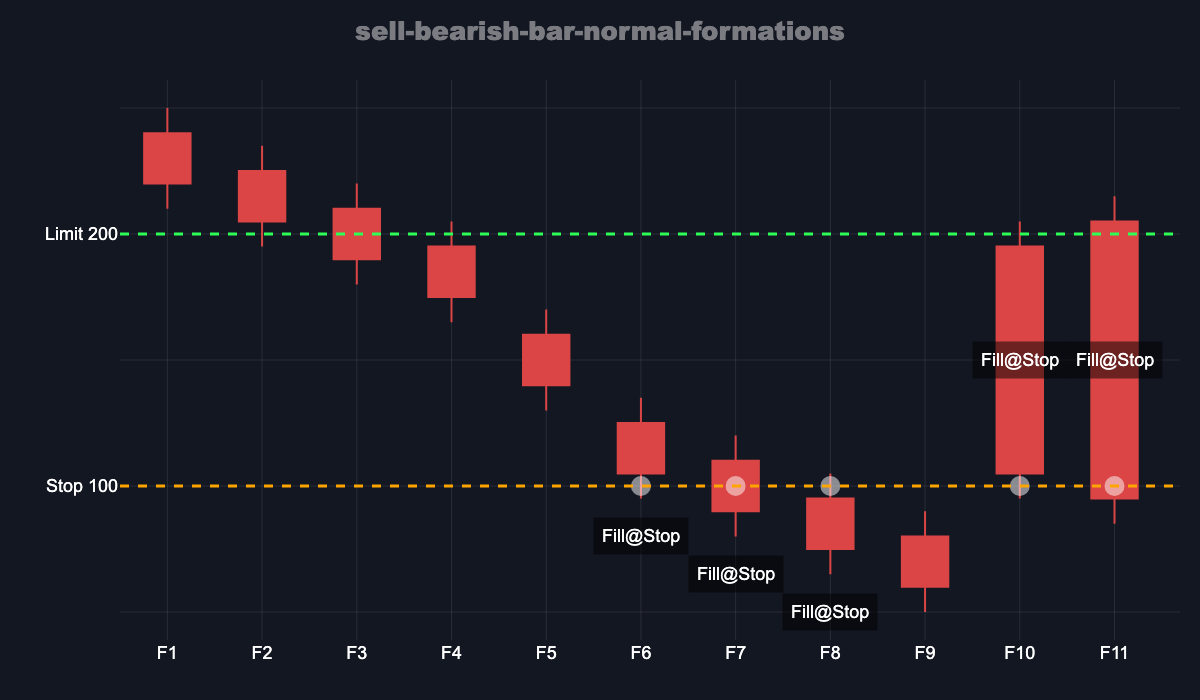
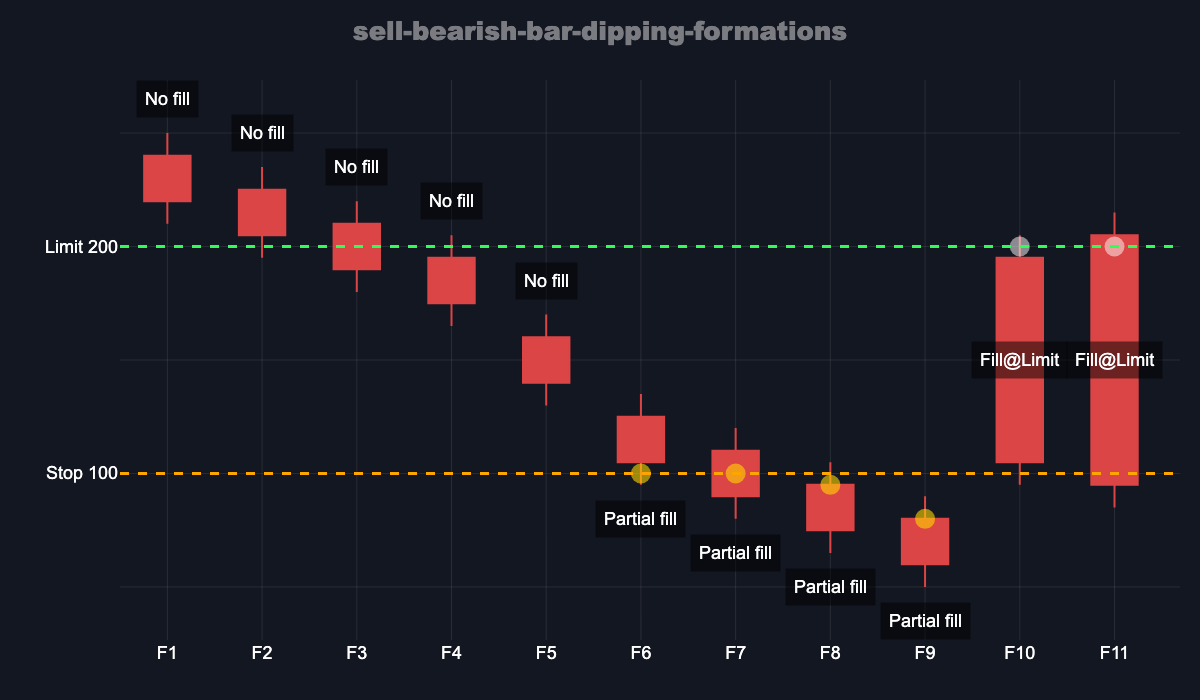
Reallization that the dipping formations' outcome was wrong, fixing them in the docs. (no fixes yet in the algoritm/tests)

diff --git a/docs/stop-limit order/stop-limit-chart-generator.py b/docs/stop-limit order/stop-limit-chart-generator.py
@@ -33,10 +33,11 @@ bar_type = "bullish" if "bullish" in csv_file.lower() else "bearish"
 
 # Parse fill information to extract fill price
 def parse_fill(fill_str):
-    """Extract fill price from fill string like 'Stop (100)' or 'No fill'"""
+    """Extract fill price from fill string like 'Stop (100)', 'Open (205)', or 'No fill'"""
     if "No fill" in fill_str:
         return 0
-    match = re.search(r'\((\d+)\)', fill_str)
+    # Match either "(digits)" or "(word digits)"
+    match = re.search(r'\((?:\w+\s+)?(\d+)\)', fill_str)
     return int(match.group(1)) if match else 0
 
 df['fill_price'] = df['Fill'].apply(parse_fill)
@@ -69,15 +70,23 @@ fig.add_hline(y=stop_price, line_dash="dash", line_color="orange", line_width=3)
 # Add Limit line (brighter green dashed)
 fig.add_hline(y=limit_price, line_dash="dash", line_color="#2EFF57", line_width=3)
 
-# Add markers at exact fill prices (single half-transparent white marker per formation, only where fill_price > 0)
+# Add markers at exact fill prices (single half-transparent marker per formation, only where fill_price > 0)
 markers_x = []
 markers_y = []
+partial_markers_x = []
+partial_markers_y = []
 
 for idx, row in df.iterrows():
     if row["fill_price"] > 0:
-        markers_x.append(row["x"])
-        markers_y.append(row["fill_price"])
+        # Check if this is a partial fill
+        if "Partial fill" in row["Fill"]:
+            partial_markers_x.append(row["x"])
+            partial_markers_y.append(row["fill_price"])
+        else:
+            markers_x.append(row["x"])
+            markers_y.append(row["fill_price"])
 
+# Add white markers for complete fills
 fig.add_trace(
     go.Scatter(
         x=markers_x,
@@ -89,31 +98,56 @@ fig.add_trace(
     )
 )
 
+# Add yellowish markers for partial fills
+fig.add_trace(
+    go.Scatter(
+        x=partial_markers_x,
+        y=partial_markers_y,
+        mode="markers",
+        marker=dict(size=20, color="rgba(255, 215, 0, 0.6)", line=dict(width=0)),  # Yellowish/gold color
+        showlegend=False,
+        hoverinfo="skip",
+    )
+)
+
 # Add fill labels dynamically based on fill information
 for idx, row in df.iterrows():
-    if row['fill_price'] > 0:
+    formation = row['Formation']
+    fill_str = row['Fill']
+    
+    # Handle different fill types
+    if "No fill" in fill_str:
+        fill_text = "No fill"
+        # Position above the bar for no-fill cases
+        y_pos = row['High'] + 15
+    elif "Partial fill" in fill_str:
+        # Extract price from partial fill like "Partial fill (Stop 200)"
+        fill_text = "Partial fill"
+        y_pos = row['Low'] - 15
+    elif row['fill_price'] > 0:
         # Extract fill type from Fill column
         fill_type = row['Fill'].split('(')[0].strip()
         fill_text = f"Fill@{fill_type}"
         
         # Position labels based on formation
-        formation = row['Formation']
         if formation in ['F2', 'F3', 'F4', 'F5']:
             y_pos = row['High'] + 15
         elif formation in ['F6', 'F7', 'F8']:
             y_pos = row['Low'] - 15
         else:  # F10, F11
             y_pos = (row['High'] + row['Low']) / 2
-        
-        fig.add_annotation(
-            x=formation,
-            y=y_pos,
-            text=fill_text,
-            showarrow=False,
-            font=dict(size=18, color="white", family="Arial"),
-            bgcolor="rgba(0,0,0,0.5)",
-            borderpad=8,
-        )
+    else:
+        continue  # Skip if no valid fill information
+    
+    fig.add_annotation(
+        x=formation,
+        y=y_pos,
+        text=fill_text,
+        showarrow=False,
+        font=dict(size=18, color="white", family="Arial"),
+        bgcolor="rgba(0,0,0,0.5)",
+        borderpad=8,
+    )
 
 # Add Stop label on Y-axis
 fig.add_annotation(

diff --git a/docs/stop-limit order/formations.md b/docs/stop-limit order/formations.md
@@ -41,7 +41,7 @@ Each section covers a specific scenario (action type × bar direction × order c
 | F6        | High (@205)   | Limit (@200) | Close (@195) | Open (@175)   | Low (@165)   | Stop (@100)| Open (175)   |
 | F7        | High (@220)   | Close (@210) | Limit (@200) | Open (@190)   | Low (@180)   | Stop (@100)| Open (190)   |
 | F8        | High (@235)   | Close (@225) | Open (@205)  | Limit (@200)  | Low (@195)   | Stop (@100)| Limit (200)  |
-| F9        | High (@250)   | Close (@240) | Open (@220)  | Low (@210)    | Limit (@200) | Stop (@100)| No fill      |
+| F9        | High (@250)   | Close (@240) | Open (@220)  | Low (@210)    | Limit (@200) | Stop (@100)| Partial fill      |
 | F10       | High (@205)   | Limit (@200) | Close (@195) | Open (@105)   | Stop (@100)  | Low (@95)  | Open (105)   |
 | F11       | High (@215)   | Close (@205) | Limit (@200) | Stop (@100)   | Open (@95)   | Low (@85)  | Stop (100)   |
 
@@ -63,7 +63,7 @@ Each section covers a specific scenario (action type × bar direction × order c
 | F6        | High (@205)   | Limit (@200) | Open (@195)  | Close (@175)  | Low (@165)   | Stop (@100)| Open (195)   |
 | F7        | High (@220)   | Open (@210)  | Limit (@200) | Close (@190)  | Low (@180)   | Stop (@100)| Limit (200)  |
 | F8        | High (@235)   | Open (@225)  | Close (@205) | Limit (@200)  | Low (@195)   | Stop (@100)| Limit (200)  |
-| F9        | High (@250)   | Open (@240)  | Close (@220) | Low (@210)    | Limit (@200) | Stop (@100)| No fill      |
+| F9        | High (@250)   | Open (@240)  | Close (@220) | Low (@210)    | Limit (@200) | Stop (@100)| Partial fill      |
 | F10       | High (@205)   | Limit (@200) | Open (@195)  | Close (@105)  | Stop (@100)  | Low (@95)  | Open (195)   |
 | F11       | High (@215)   | Open (@205)  | Limit (@200) | Stop (@100)   | Close (@95)  | Low (@85)  | Limit (200)  |
 
@@ -83,12 +83,12 @@ Each section covers a specific scenario (action type × bar direction × order c
 | F3        | Stop (@200)   | High (@120)  | Close (@110) | Limit (@100)  | Open (@90)   | Low (@80)  | No fill      |
 | F4        | Stop (@200)   | High (@135)  | Close (@125) | Open (@105)   | Limit (@100) | Low (@95)  | No fill      |
 | F5        | Stop (@200)   | High (@170)  | Close (@160) | Open (@140)   | Low (@130)   | Limit (@100)| No fill      |
-| F6        | High (@205)   | Stop (@200)  | Close (@195) | Open (@175)   | Low (@165)   | Limit (@100)| Stop (200)   |
-| F7        | High (@220)   | Close (@210) | Stop (@200)  | Open (@190)   | Low (@180)   | Limit (@100)| Stop (200)   |
-| F8        | High (@235)   | Close (@225) | Open (@205)  | Stop (@200)   | Low (@195)   | Limit (@100)| Stop (200)   |
-| F9        | High (@250)   | Close (@240) | Open (@220)  | Low (@210)    | Stop (@200)  | Limit (@100)| No fill      |
-| F10       | High (@205)   | Stop (@200)  | Close (@195) | Open (@105)   | Limit (@100) | Low (@95)  | Stop (200)   |
-| F11       | High (@215)   | Close (@205) | Stop (@200)  | Limit (@100)  | Open (@95)   | Low (@85)  | Stop (200)   |
+| F6        | High (@205)   | Stop (@200)  | Close (@195) | Open (@175)   | Low (@165)   | Limit (@100)| Partial fill (Stop 200)   |
+| F7        | High (@220)   | Close (@210) | Stop (@200)  | Open (@190)   | Low (@180)   | Limit (@100)| Partial fill (Stop 200)   |
+| F8        | High (@235)   | Close (@225) | Open (@205)  | Stop (@200)   | Low (@195)   | Limit (@100)| Partial fill (Open 205)   |
+| F9        | High (@250)   | Close (@240) | Open (@220)  | Low (@210)    | Stop (@200)  | Limit (@100)| Partial fill (Open 220)   |
+| F10       | High (@205)   | Stop (@200)  | Close (@195) | Open (@105)   | Limit (@100) | Low (@95)  | Limit (100)   |
+| F11       | High (@215)   | Close (@205) | Stop (@200)  | Limit (@100)  | Open (@95)   | Low (@85)  | Limit (100)   |
 
 ---
 
@@ -105,12 +105,12 @@ Each section covers a specific scenario (action type × bar direction × order c
 | F3        | Stop (@200)   | High (@120)  | Open (@110)  | Limit (@100)  | Close (@90)  | Low (@80)  | No fill      |
 | F4        | Stop (@200)   | High (@135)  | Open (@125)  | Close (@105)  | Limit (@100) | Low (@95)  | No fill      |
 | F5        | Stop (@200)   | High (@170)  | Open (@160)  | Close (@140)  | Low (@130)   | Limit (@100)| No fill      |
-| F6        | High (@205)   | Stop (@200)  | Open (@195)  | Close (@175)  | Low (@165)   | Limit (@100)| Stop (200)   |
-| F7        | High (@220)   | Open (@210)  | Stop (@200)  | Close (@190)  | Low (@180)   | Limit (@100)| Stop (200)   |
-| F8        | High (@235)   | Open (@225)  | Close (@205) | Stop (@200)   | Low (@195)   | Limit (@100)| Stop (200)   |
-| F9        | High (@250)   | Open (@240)  | Close (@220) | Low (@210)    | Stop (@200)  | Limit (@100)| No fill      |
-| F10       | High (@205)   | Stop (@200)  | Open (@195)  | Close (@105)  | Limit (@100) | Low (@95)  | Stop (200)   |
-| F11       | High (@215)   | Open (@205)  | Stop (@200)  | Limit (@100)  | Close (@95)  | Low (@85)  | Stop (200)   |
+| F6        | High (@205)   | Stop (@200)  | Open (@195)  | Close (@175)  | Low (@165)   | Limit (@100)| Partial fill (Stop 200)   |
+| F7        | High (@220)   | Open (@210)  | Stop (@200)  | Close (@190)  | Low (@180)   | Limit (@100)| Partial fill (Open 210)   |
+| F8        | High (@235)   | Open (@225)  | Close (@205) | Stop (@200)   | Low (@195)   | Limit (@100)| Partial fill (Open 225)   |
+| F9        | High (@250)   | Open (@240)  | Close (@220) | Low (@210)    | Stop (@200)  | Limit (@100)| Partial fill (Open 240)   |
+| F10       | High (@205)   | Stop (@200)  | Open (@195)  | Close (@105)  | Limit (@100) | Low (@95)  | Limit (100)   |
+| F11       | High (@215)   | Open (@205)  | Stop (@200)  | Limit (@100)  | Close (@95)  | Low (@85)  | Limit (100)   |
 
 ---
 
@@ -149,12 +149,12 @@ Each section covers a specific scenario (action type × bar direction × order c
 | F3        | High (@220)   | Close (@210) | Limit (@200) | Open (@190)   | Low (@180)   | Stop (@100)| No fill     |
 | F4        | High (@205)   | Close (@195) | Limit (@200) | Open (@175)   | Low (@165)   | Stop (@100)| No fill     |
 | F5        | High (@170)   | Close (@160) | Limit (@200) | Open (@140)   | Low (@130)   | Stop (@100)| No fill     |
-| F6        | High (@135)   | Close (@125) | Limit (@200) | Open (@105)   | Stop (@100)  | Low (@95)  | Stop (100)  |
-| F7        | High (@120)   | Close (@110) | Limit (@200) | Stop (@100)   | Open (@90)   | Low (@80)  | Stop (100)  |
-| F8        | High (@105)   | Limit (@200) | Stop (@100)  | Close (@95)   | Open (@75)   | Low (@65)  | Stop (100)  |
-| F9        | Limit (@200)  | Stop (@100)  | High (@90)   | Close (@80)   | Open (@60)   | Low (@50)  | No fill     |
-| F10       | High (@205)   | Limit (@200) | Close (@195) | Open (@105)   | Stop (@100)  | Low (@95)  | Stop (100)  |
-| F11       | High (@215)   | Close (@205) | Limit (@200) | Stop (@100)   | Open (@95)   | Low (@85)  | Stop (100)  |
+| F6        | High (@135)   | Close (@125) | Limit (@200) | Open (@105)   | Stop (@100)  | Low (@95)  | Partial fill (Stop 100)  |
+| F7        | High (@120)   | Close (@110) | Limit (@200) | Stop (@100)   | Open (@90)   | Low (@80)  | Partial fill (Open 90)  |
+| F8        | High (@105)   | Limit (@200) | Stop (@100)  | Close (@95)   | Open (@75)   | Low (@65)  | Partial fill (Open 75)  |
+| F9        | Limit (@200)  | Stop (@100)  | High (@90)   | Close (@80)   | Open (@60)   | Low (@50)  | Partial fill (Open 60)     |
+| F10       | High (@205)   | Limit (@200) | Close (@195) | Open (@105)   | Stop (@100)  | Low (@95)  | Limit (200)  |
+| F11       | High (@215)   | Close (@205) | Limit (@200) | Stop (@100)   | Open (@95)   | Low (@85)  | Limit (200)  |
 
 ---
 
@@ -193,11 +193,11 @@ Each section covers a specific scenario (action type × bar direction × order c
 | F3        | High (@220)   | Open (@210)  | Limit (@200) | Close (@190)  | Low (@180)   | Stop (@100)| No fill     |
 | F4        | High (@205)   | Limit (@200) | Open (@195)  | Close (@175)  | Low (@165)   | Stop (@100)| No fill     |
 | F5        | Limit (@200)  | High (@170)  | Open (@160)  | Close (@140)  | Low (@130)   | Stop (@100)| No fill     |
-| F6        | Limit (@200)  | High (@135)  | Open (@125)  | Close (@105)  | Stop (@100)  | Low (@95)  | Stop (100)  |
-| F7        | Limit (@200)  | High (@120)  | Open (@110)  | Stop (@100)   | Close (@90)  | Low (@80)  | Stop (100)  |
-| F8        | Limit (@200)  | High (@105)  | Stop (@100)  | Open (@95)    | Close (@75)  | Low (@65)  | Stop (100)  |
-| F9        | Limit (@200)  | Stop (@100)  | High (@90)   | Open (@80)    | Close (@60)  | Low (@50)  | No fill     |
-| F10       | High (@205)   | Limit (@200) | Open (@195)  | Close (@105)  | Stop (@100)  | Low (@95)  | Stop (100)  |
-| F11       | High (@215)   | Open (@205)  | Limit (@200) | Stop (@100)   | Close (@95)  | Low (@85)  | Stop (100)  |
+| F6        | Limit (@200)  | High (@135)  | Open (@125)  | Close (@105)  | Stop (@100)  | Low (@95)  | Partial fill (Stop 100)  |
+| F7        | Limit (@200)  | High (@120)  | Open (@110)  | Stop (@100)   | Close (@90)  | Low (@80)  | Partial fill (Stop 100)  |
+| F8        | Limit (@200)  | High (@105)  | Stop (@100)  | Open (@95)    | Close (@75)  | Low (@65)  | Partial fill (Open 95)  |
+| F9        | Limit (@200)  | Stop (@100)  | High (@90)   | Open (@80)    | Close (@60)  | Low (@50)  | Partial fill (Open 80)     |
+| F10       | High (@205)   | Limit (@200) | Open (@195)  | Close (@105)  | Stop (@100)  | Low (@95)  | Limit (200)  |
+| F11       | High (@215)   | Open (@205)  | Limit (@200) | Stop (@100)   | Close (@95)  | Low (@85)  | Limit (200)  |
 
 ---
